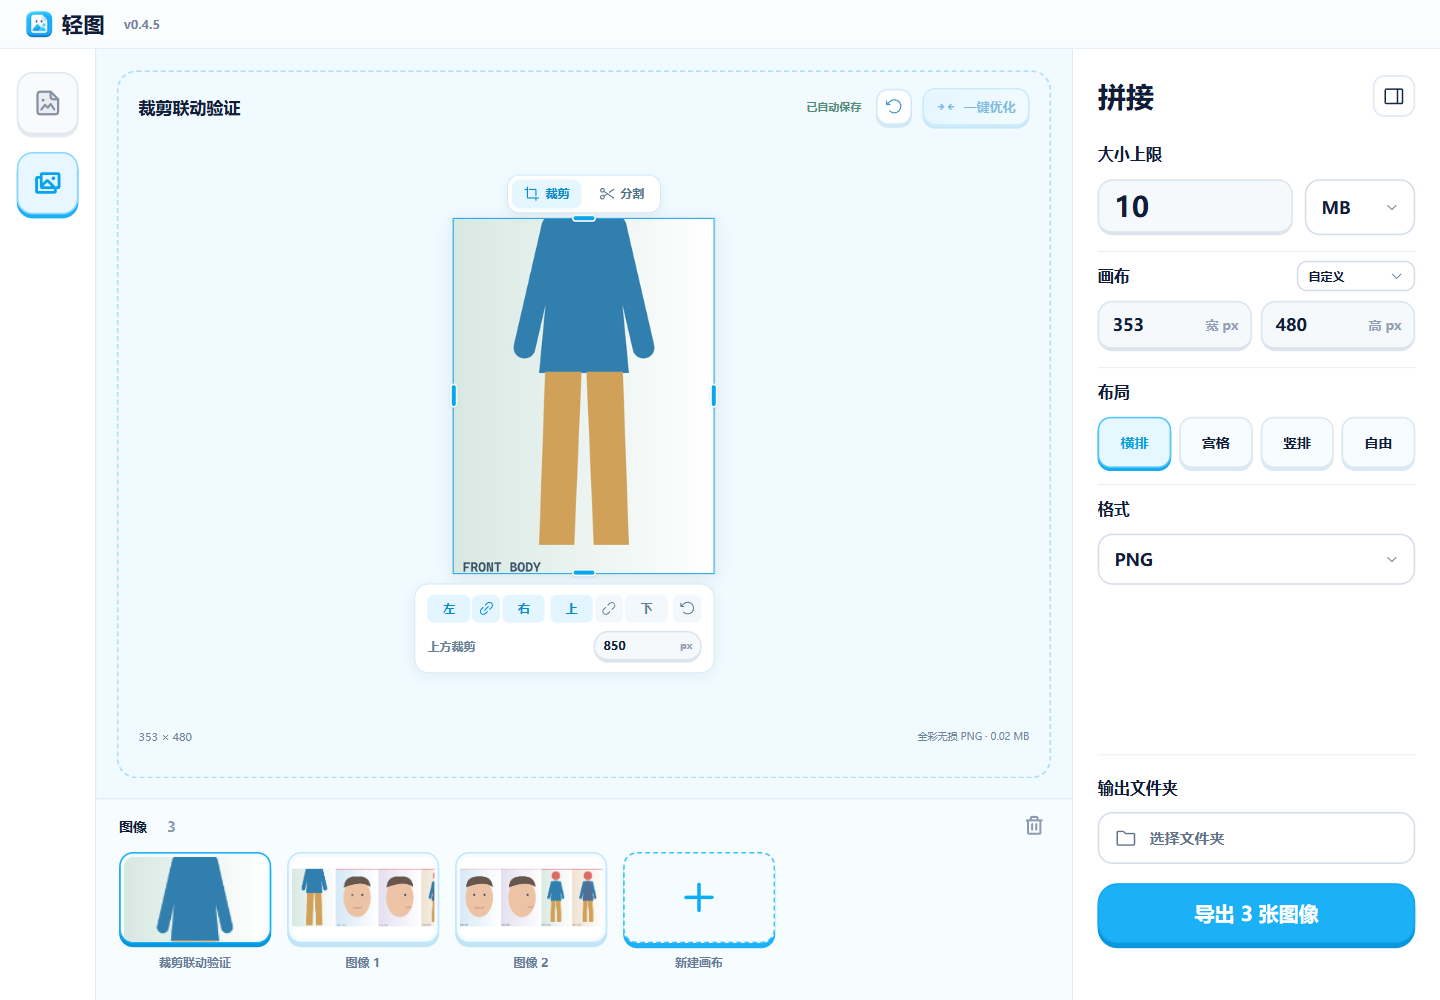
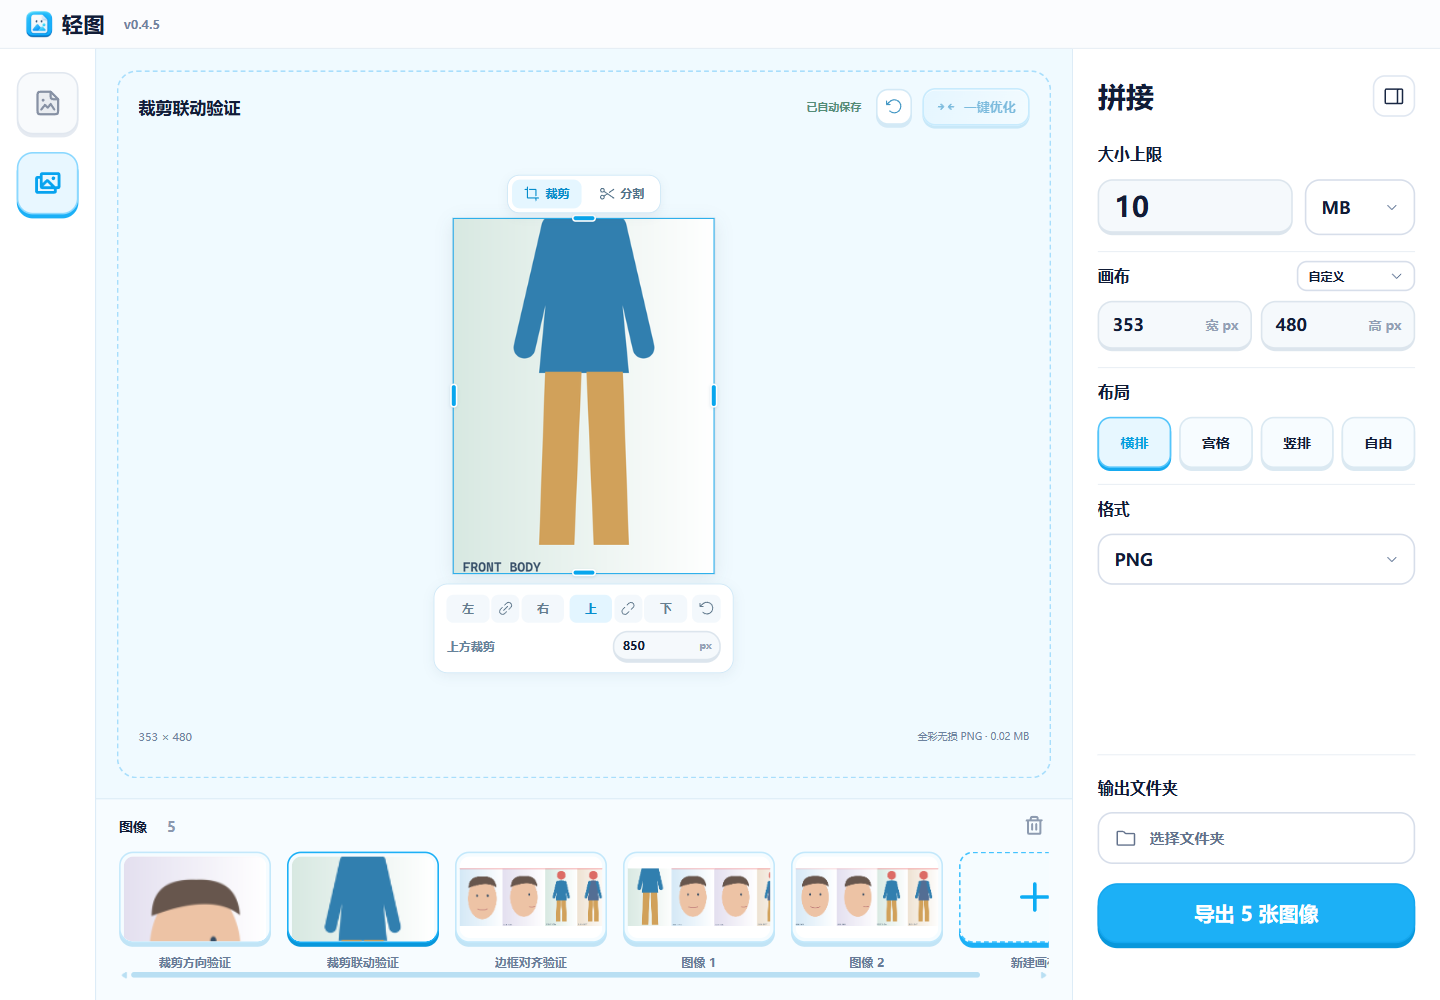
Separate crop axis selection and center its editor

Changed region(s): [[0.0938, 0.837, 0.7188, 0.992], [0.2812, 0.589, 0.4375, 0.651], [0.4688, 0.62, 0.5, 0.651]]

diff --git a/qingtu/src/stitch/ImageEditor.jsx b/qingtu/src/stitch/ImageEditor.jsx
@@ -47,7 +47,7 @@ export const ImageEditor=forwardRef(function ImageEditor({image,value,open,place
   if(prefill.current&&axis!==(['left','right'].includes(next)?'horizontal':'vertical')){const clean={edges:{...empty},links:{...latest.current.links}};latest.current=clean;setDraft(clean);prefill.current=false;}
   setSide(next);
  }
- function change(raw){preview({...latest.current,edges:changeCropEdge(image,latest.current.edges,side,raw,latest.current.links[axis])});clearTimeout(timer.current);if(!pointer.current)timer.current=setTimeout(()=>commit().catch(e=>setError(e.message)),450);}
+ function change(raw){const current=prefill.current&&axis==='vertical'?{...latest.current,edges:{...empty}}:latest.current;preview({...current,edges:changeCropEdge(image,current.edges,side,raw,current.links[axis])});clearTimeout(timer.current);if(!pointer.current)timer.current=setTimeout(()=>commit().catch(e=>setError(e.message)),450);}
  function finish(){pointer.current=false;commit().catch(e=>setError(e.message));}
  function startCrop(edge){
   clearTimeout(timer.current);cancelAnimationFrame(frame.current);frame.current=null;
@@ -65,7 +65,7 @@ export const ImageEditor=forwardRef(function ImageEditor({image,value,open,place
   setSide(edge);preview({...current,links:{...current.links,[pairAxis]:enabled},edges:enabled?changeCropEdge(image,current.edges,edge,current.edges[edge],true):current.edges});commit().catch(e=>setError(e.message));
  }
  function edgeButton(edge,pairAxis){
-  const active=draft.links[pairAxis]||side===edge;
+  const active=pairAxis===axis&&(draft.links[pairAxis]||side===edge);
   return <button aria-label={`裁剪${names[edge]}边`} aria-pressed={active} className={active?'active':''} disabled={disabled} onClick={()=>chooseSide(edge)}>{names[edge]}</button>;
  }
  return <div ref={root} className="inline-image-controls" hidden={hidden} onKeyDown={event=>{if(event.key==='Escape'){event.stopPropagation();close();}}}>
@@ -78,7 +78,7 @@ export const ImageEditor=forwardRef(function ImageEditor({image,value,open,place
    {mode==='split'&&splitDraft?<ImageSplitControls image={image} value={splitDraft} onChange={onSplitDraft} disabled={disabled} onConfirm={onSplit} onCancel={close}/>:<>
     <div className="crop-edge-options" role="group" aria-label="裁剪边">{pairs.map(pair=><div key={pair.axis} className="crop-edge-pair" role="group" aria-label={`${pair.name}裁剪`}>
      {edgeButton(pair.sides[0],pair.axis)}
-     <button className={`crop-link ${draft.links[pair.axis]?'active':''}`} aria-label={`关联${pair.name}裁剪`} aria-pressed={draft.links[pair.axis]} title={`${draft.links[pair.axis]?'取消':'开启'}${pair.name}联动`} disabled={disabled} onClick={()=>link(pair.axis)}>{draft.links[pair.axis]?<LinkSimple size={16}/>:<LinkSimpleBreak size={16}/>}</button>
+     <button className={`crop-link ${axis===pair.axis&&draft.links[pair.axis]?'active':''}`} aria-label={`关联${pair.name}裁剪`} aria-pressed={draft.links[pair.axis]} title={`${draft.links[pair.axis]?'取消':'开启'}${pair.name}联动`} disabled={disabled} onClick={()=>link(pair.axis)}>{draft.links[pair.axis]?<LinkSimple size={16}/>:<LinkSimpleBreak size={16}/>}</button>
      {edgeButton(pair.sides[1],pair.axis)}
     </div>)}
      <button className="crop-reset" aria-label="重置此图裁剪" title="重置此图裁剪" disabled={disabled} onClick={()=>{preview({...latest.current,edges:{...empty}});commit().catch(e=>setError(e.message));}}><ArrowCounterClockwise size={17}/></button>

diff --git a/qingtu/src/stitch/StitchCanvas.jsx b/qingtu/src/stitch/StitchCanvas.jsx
@@ -93,7 +93,7 @@ export function StitchCanvas({project,layout,onChange,onEdit,onContext,onRemove,
    </div>}
    {split&&selectedRect&&<CanvasSplitOverlay image={selectedImage} rect={selectedRect} scale={scale} value={split} onChange={onSplitChange} disabled={splitDisabled}/>}
    <div className="reorder-indicator" hidden/>
-   {selectedRect&&renderControls&&renderControls((()=>{const left=(bounds.width-layout.width*scale)/2,top=(bounds.height-layout.height*scale)/2-38,clamp=(value,min,max)=>Math.max(min,Math.min(max,value)),x=selectedRect.x*scale,y=selectedRect.y*scale,width=selectedRect.width*scale,height=selectedRect.height*scale;return {rect:selectedRect,scale,tools:{left:clamp(x+(width-154)/2,8-left,bounds.width-left-162),top:clamp(y-43,8-top,bounds.height-top-43)},panel:{left:clamp(x+width-300,8-left,bounds.width-left-308),top:clamp(y+height+10,48-top,bounds.height-top-(split?129:80))}};})())}
+   {selectedRect&&renderControls&&renderControls((()=>{const left=(bounds.width-layout.width*scale)/2,top=(bounds.height-layout.height*scale)/2-38,clamp=(value,min,max)=>Math.max(min,Math.min(max,value)),x=selectedRect.x*scale,y=selectedRect.y*scale,width=selectedRect.width*scale,height=selectedRect.height*scale;return {rect:selectedRect,scale,tools:{left:clamp(x+(width-154)/2,8-left,bounds.width-left-162),top:clamp(y-43,8-top,bounds.height-top-43)},panel:{left:clamp(x+(split?width-300:(width-300)/2),8-left,bounds.width-left-308),top:clamp(y+height+10,48-top,bounds.height-top-(split?129:80))}};})())}
   </div>:<div className="stitch-invalid">请调整画布</div>}
  </div>;
 }

diff --git a/qingtu/AGENTS.md b/qingtu/AGENTS.md
@@ -51,11 +51,11 @@ Build app UI in `src/`. Keep `.openai/hosting.json`, `worker/index.js`, `scripts
 ## Stitching / quality branch requirements (2026-10-13)
 
 - Drag feedback updates image, overflow and selection DOM styles temporarily. Always restore all three to the last rendered rectangle before committing a move, resize or reorder, including no-op and cancellation paths. React does not rewrite unchanged style properties; leaving a dragged axis behind can offset the selection frame after layout reflow. Verify diagonal reorder in all structured layouts and final frame bounds after free moves/resizes.
-- Latest crop interaction confirmation (2026-10-14): replace the slider with four directly draggable image edges and retain the original-pixel numeric input. Show two independent groups ordered Left / Link / Right and Top / Link / Bottom. Vertical linkage defaults off, horizontal linkage retains its default on; explicitly saved choices remain authoritative. A linked pair highlights both edge buttons as selected, including when the other pair is being edited. Clicking a link also selects that pair for the pixel input. Keep existing crop values and legacy edits readable. Direct dragging starts from the actual crop, never the untouched 50px prefill, and keeps the source scale fixed during the gesture. Use low-resolution rAF previews without save/encode until release; then apply the normal fixed-height row policy. Outward drags restore available source pixels, Escape/pointer cancellation restores the pre-gesture state, and normal close flushes the latest unreleased gesture. Hide ordinary resize handles while crop controls are open; never confuse cropping with width zoom.
+- Latest crop interaction confirmation (2026-10-14): replace the slider with four directly draggable image edges and retain the original-pixel numeric input. Show two independent groups ordered Left / Link / Right and Top / Link / Bottom. Vertical linkage defaults off, horizontal linkage retains its default on; explicitly saved choices remain authoritative. Highlight only the currently edited axis: both edge buttons when that active pair is linked, otherwise only its chosen edge. Keep the inactive pair visually neutral while retaining its saved linkage setting. Clicking a link also selects that pair for the pixel input. Keep existing crop values and legacy edits readable. Direct dragging starts from the actual crop, never the untouched 50px prefill, and keeps the source scale fixed during the gesture. Use low-resolution rAF previews without save/encode until release; then apply the normal fixed-height row policy. Outward drags restore available source pixels, Escape/pointer cancellation restores the pre-gesture state, and normal close flushes the latest unreleased gesture. Hide ordinary resize handles while crop controls are open; never confuse cropping with width zoom.
 - Latest optimization-icon feedback (2026-10-14): use a simple monochrome pair of inward arrows, with rounded thin strokes matching neighbouring controls. Remove the icon's nested blue tile, crop frame and check decoration. Keep the button's own pale-blue background and existing interaction states; this supersedes the earlier crop/check glyph direction.
 - Latest portrait-workflow confirmation (2026-10-14) supersedes the earlier automatic-height/import normalization and move-only structured layouts: **canvas height stays fixed**, default 2398 px. Automatic horizontal width follows the contiguous row, capped at min(5999, floor(height*2.5)); default maximum is 5995x2398. Beyond the cap, retain complete source poses and visibly faded overflow; export the canvas intersection. Resizing never shrinks other images to force the budget/ratio. New imports use the canvas height, append right and refit width, retaining existing crops/zooms. User-set presets/width/height stay authoritative until another import. Invalid manual sizes and too-narrow content retain the existing explicit validation; never add hidden padding.
 - The confirmed two-image case is two precombined originals: front+side face closeups, front+back full bodies. The four-image case is front face, side face (3:4 each), front body, back body (9:16 each). Never identify roles or remove a head automatically. Each image supports simultaneous independent left/top/right/bottom source-pixel crops, with separate persistent horizontal/vertical association toggles. Cropping a horizontal image keeps its display height and source aspect, adjusts width and reflows the row. Top-only crop must not touch the bottom or other images. Link changes reuse exact encoded results without decoding originals again. Keep legacy symmetric/fraction edits readable and untouched until explicitly edited.
-- Selected-image controls replace the floating/double-click dialog: show Crop/Split above the selected image, paired crop side selectors + association + numeric pixels underneath; split divider remains on the complete original, with Confirm/Cancel below the image on its right. Double-click/right-click Edit opens the same inline crop controls. Keep 50px untouched symmetric prefill non-applying; switching to the other axis clears only that untouched prefill. Explicit changes save; no Done step. Preserve full-source split centre/scales, exact source windows and cancellation semantics. Clamp controls to the visible work area, freeze control placement during crop edge gestures, and ignore hidden zero-size ResizeObserver records so switching tools cannot collapse the canvas.
+- Selected-image controls replace the floating/double-click dialog: show Crop/Split above the selected image, paired crop side selectors + association + numeric pixels underneath; split divider remains on the complete original, with Confirm/Cancel below the image on its right. Double-click/right-click Edit opens the same inline crop controls. Keep 50px untouched symmetric prefill non-applying; switching to the other axis clears only that untouched prefill. Explicit changes save; no Done step. Preserve full-source split centre/scales, exact source windows and cancellation semantics. Centre the crop panel horizontally below the selected image, clamping it to the visible work area; freeze control placement during crop edge gestures, and ignore hidden zero-size ResizeObserver records so switching tools cannot collapse the canvas.
 - Drag directly reorders horizontal/grid/vertical images, using actual 2D source rectangles for drop targeting even when remembered positions do not match the nominal layout. Free dragging moves with snapping. Horizontal width controls are only left/right handles, default proportional zoom centred vertically; canvas height does not change, overflow clips, no Shift stretching in this workflow. Other layout/free transform controls remain available. Reordering preserves horizontal image widths, crops and initialOrder, reflows x positions, and updates canvas width only when automatic. Commit/save/encode only after release or normal-close flush; cancelled and click-only gestures do nothing. Per-layout canvas/pose memory and immutable originals remain required. Current implementation and validation: docs/portrait-workflow.md; earlier docs/content-canvas.md and docs/resize-canvas.md are historical.
 
 - Latest canvas interaction confirmation (2026-10-14) overrides older reapply-on-click and miniature-split rules. Remember horizontal/grid/vertical/free poses independently and durably, restoring them on return; only first populated visits arrange, clicking the active mode does nothing. Crops/order remain project-wide. Store complete-source geometry for each mode so changing/resetting crop preserves its centre and source scale. Reconcile imports/deletes and split pieces across memories; never revive removed IDs or obsolete crops. Empty visits have no remembered image positions.

diff --git a/qingtu/README.md b/qingtu/README.md
@@ -30,7 +30,7 @@ Mac / Windows 本地图片压缩与拼接工具。拖入图片，设置大小或
 - 底部“图像”卡片展示整个画布，可切换、新建，无复选框。右键卡片可单独导出或删除，删除前确认；列表右上角可确认删除全部，完成后只剩“新建画布”。画布内不再显示添加/删除按钮；使用拖入或 ⌘/Ctrl+O 继续导入，Delete 移除选中图片。手动创建的空画布仍可点击“添加图片”，无画布时先新建。右侧保留布局与导出设置，卡片小图持久化且不加载其他项目原图。
 - 横排“一键优化”从完整原图重新计算，每张按相同百分比左右居中裁剪，替换旧裁剪并横排铺满**当前画布比例**，画布尺寸保持不变。例如画布改为 2:1，就按 2:1 优化。原图横排比例不大于画布宽高比、已完成同样裁剪或非横排时禁用。默认 5995×2398 的四张示例仍各侧裁约 2.38%；2:1 画布各侧约 11.90%。
 - 画布右上角仅放置各自有背景的重置与“一键优化”，优化位于最右侧，采用简洁的向内收拢线条图标。优化弹窗显示真实裁剪、保存、布局预览阶段；保存与清晰布局预览完成后弹窗直接关闭，即可继续编辑，体积在后台计算。MB 就绪后显示真实文件大小，导出等待实际编码并验证上限。处理中关闭为禁用浅灰色，失败关闭为白底中性色并保留错误。重置先确认，确认按钮沿用主按钮蓝色，取消为白底。右侧布局依次为横排、宫格、竖排、自由。
-- 选中图片，上方显示“裁剪／分割”。双击、右键编辑也打开同一套下方控件，不再弹出可拖动编辑窗。裁剪直接拖动图片四边，保留原图像素数值，移除滑块；下方按“左／联动／右”和“上／联动／下”排列。左右默认联动，上下默认独立，已有明确设置保留；开启联动后两侧按钮同时选中，同步裁剪。向外拖可恢复可用原图，四边裁剪可以同时保留。拖动过程中保持原图缩放比例、暂不重排，松手后才恢复固定显示高度并衔接横排。关联按图片保存，纯设置变更复用编码结果。未编辑图片左右各预填 50 px，未修改不应用；直接拖动从实际裁剪开始，不带入预填值。首次切换到上下边会清掉未应用的左右预填。松手或数值修改后自动保存；拖动中 Escape 取消本次拖动，平时点击控件外或 Escape 关闭，正常退出会保存未松手的最新裁剪；重置清除该图四边裁剪。
+- 选中图片，上方显示“裁剪／分割”。双击、右键编辑也打开同一套下方控件，不再弹出可拖动编辑窗。裁剪直接拖动图片四边，保留原图像素数值，移除滑块；下方按“左／联动／右”和“上／联动／下”排列。左右默认联动，上下默认独立，已有明确设置保留；仅高亮当前编辑方向组，当前组开启联动后两侧按钮同时选中，同步裁剪；切换方向不改变另一组的联动设置。裁剪编辑框在图片下方居中，靠近窗口边缘时保持可见。向外拖可恢复可用原图，四边裁剪可以同时保留。拖动过程中保持原图缩放比例、暂不重排，松手后才恢复固定显示高度并衔接横排。关联按图片保存，纯设置变更复用编码结果。未编辑图片左右各预填 50 px，未修改不应用；直接拖动从实际裁剪开始，不带入预填值。首次切换到上下边会清掉未应用的左右预填。松手或数值修改后自动保存；拖动中 Escape 取消本次拖动，平时点击控件外或 Escape 关闭，正常退出会保存未松手的最新裁剪；重置清除该图四边裁剪。
 - 点击图片上方“分割”，在完整原图上拖动分割线或设置数值，图片右下方显示“取消／确认”。水平横线分上下，垂直竖线分左右；确认前不改变项目，取消恢复原裁剪和位置。分割忽略已有裁剪并保留原图中心、缩放比例；两张共用不可变原图副本，确认不编码、不复制大图，可继续分割、缩放和裁剪。其他布局记忆同步替换父图位置，保存恢复使用同一源区域。
 - 右上角重置恢复裁剪和真正导入顺序，保留画布、布局与导出设置，以及各图原始缩放与中心（包括 Shift 调整的宽高比例）。新项目自动记录导入顺序。没有该记录的旧多图项目须由用户提供真实顺序，应用不会猜测。
 - 拖动、缩放及裁剪边在 requestAnimationFrame 中只更新低分辨率画面，结束后自动保存并计算真实预览；键盘 Alt+方向键换序并按当前预设重新排列，自由模式下调整叠放顺序；普通方向键移动图片，Shift+方向键移动 10 px，Enter 编辑，Delete 移除。聚焦裁剪边时，对应方向键按 1 个原图像素调整，Shift 按 10 px 调整。
